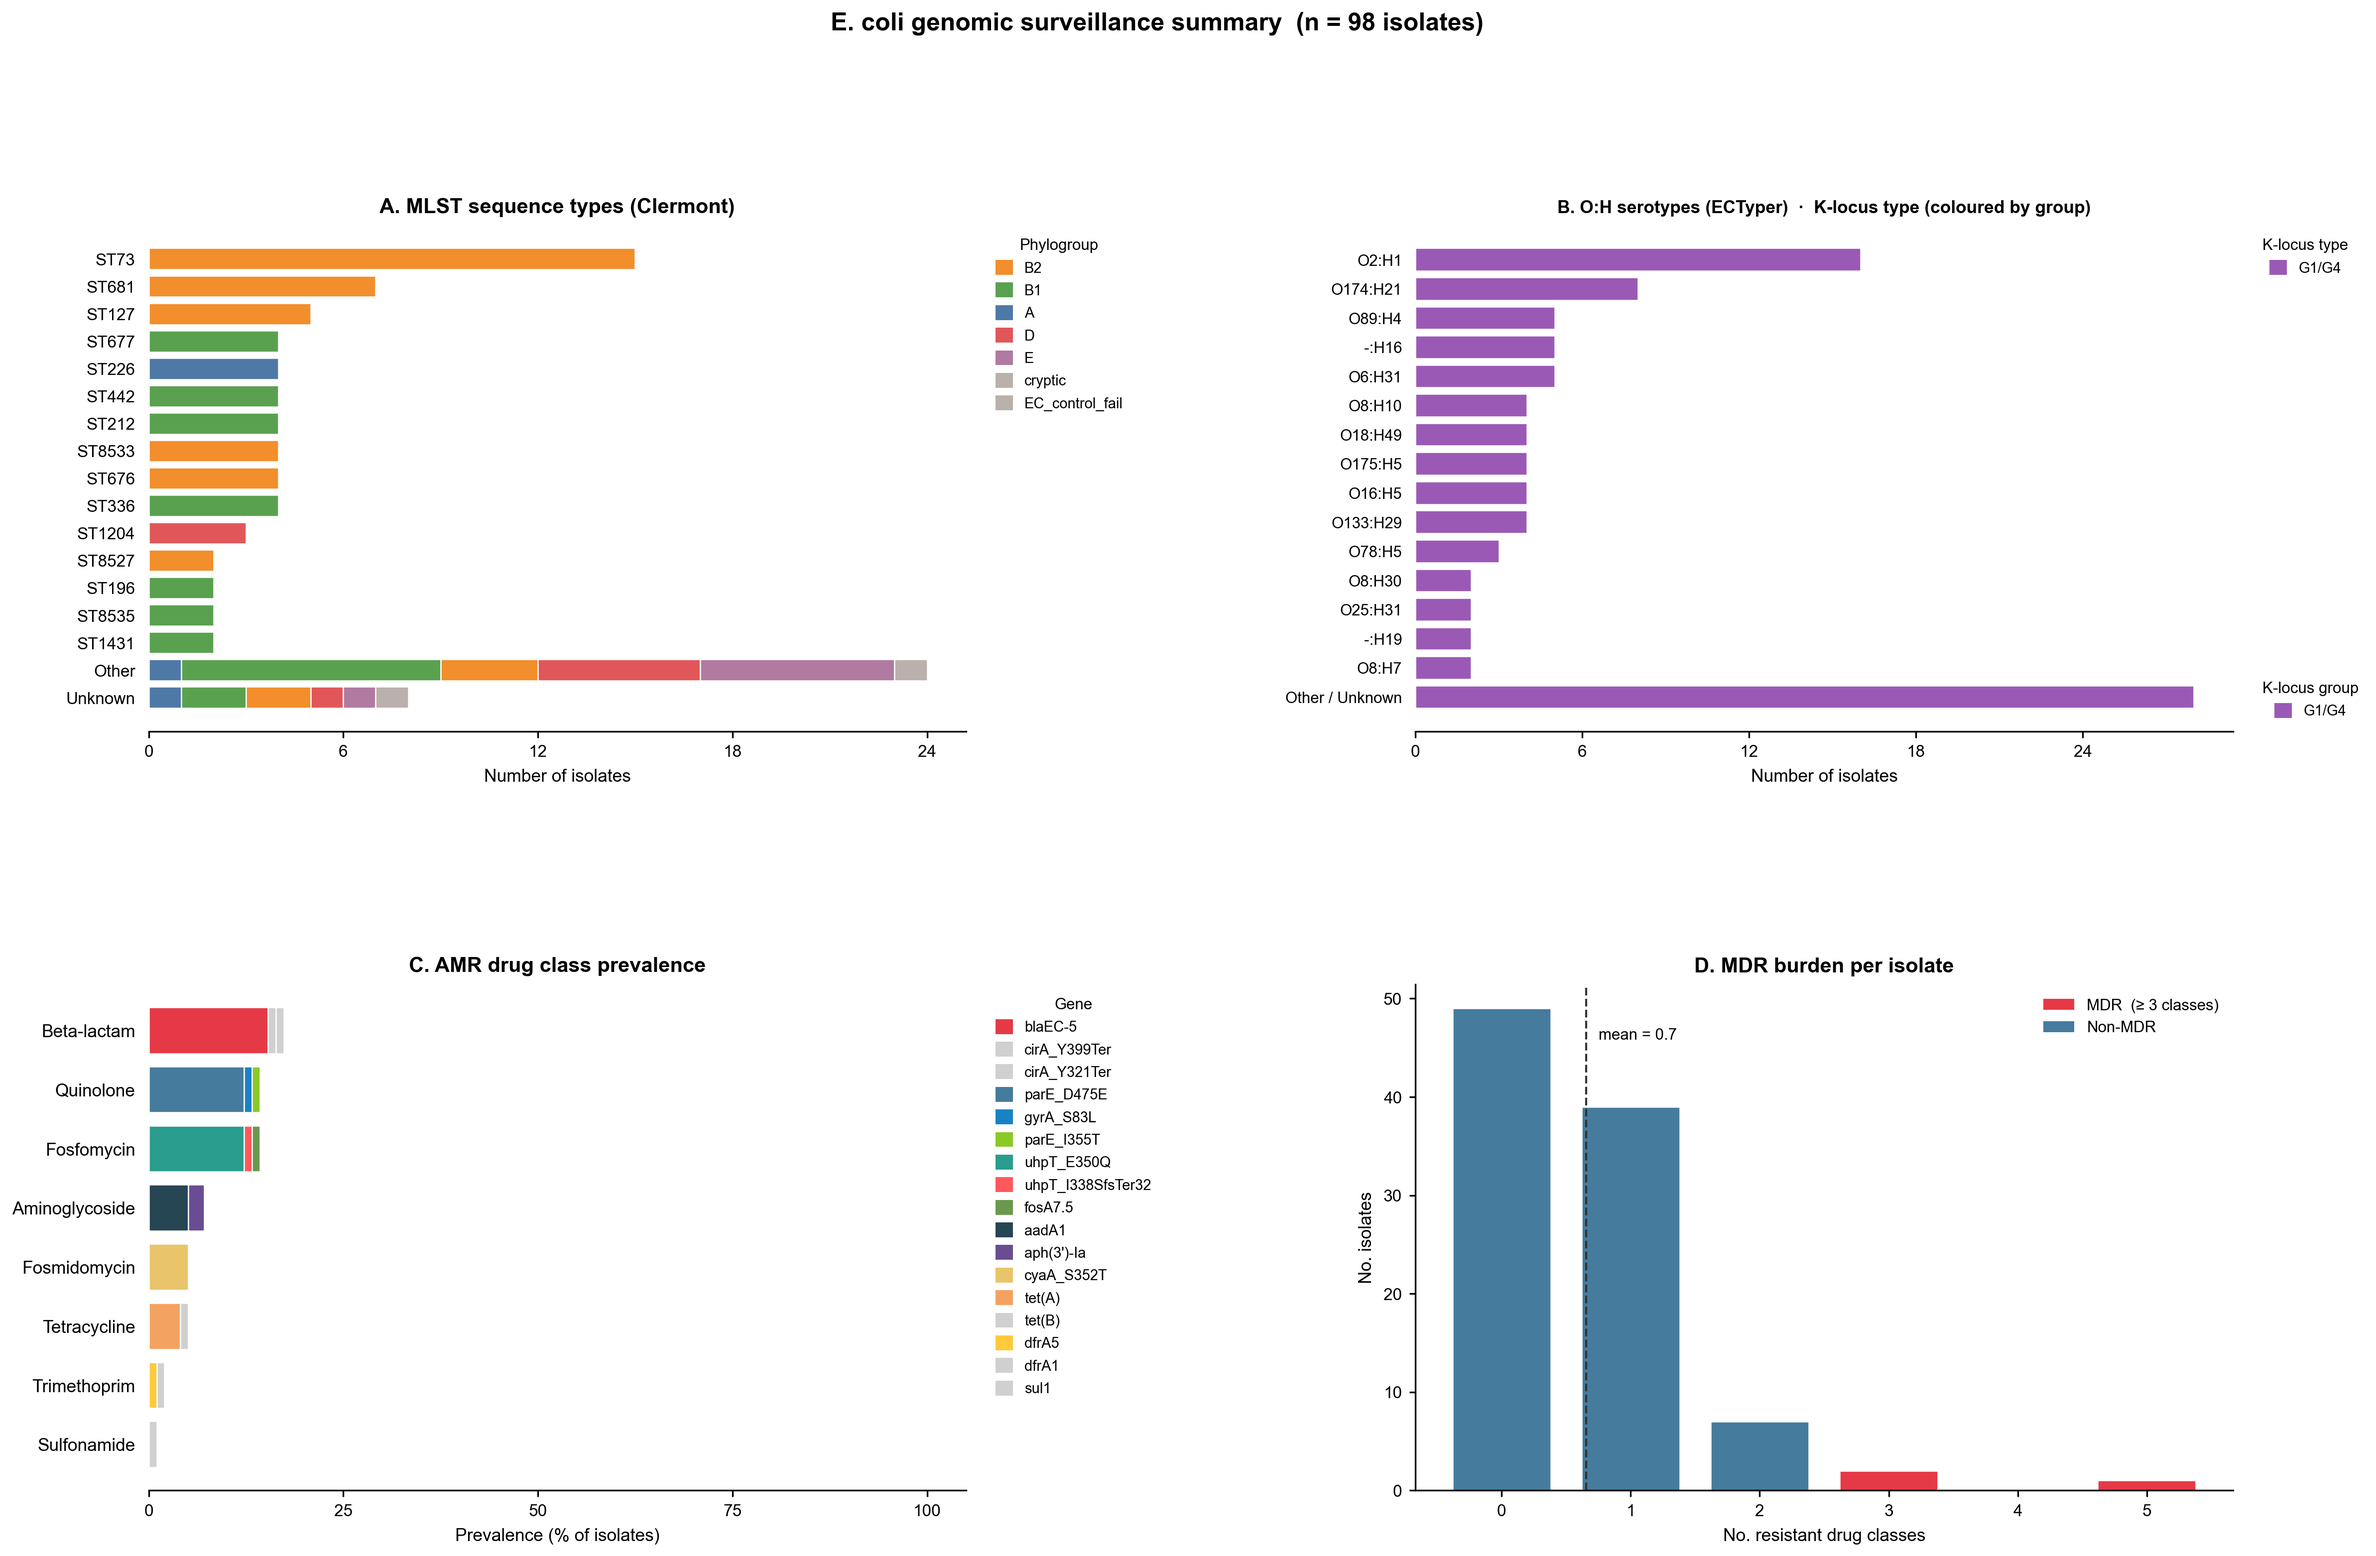
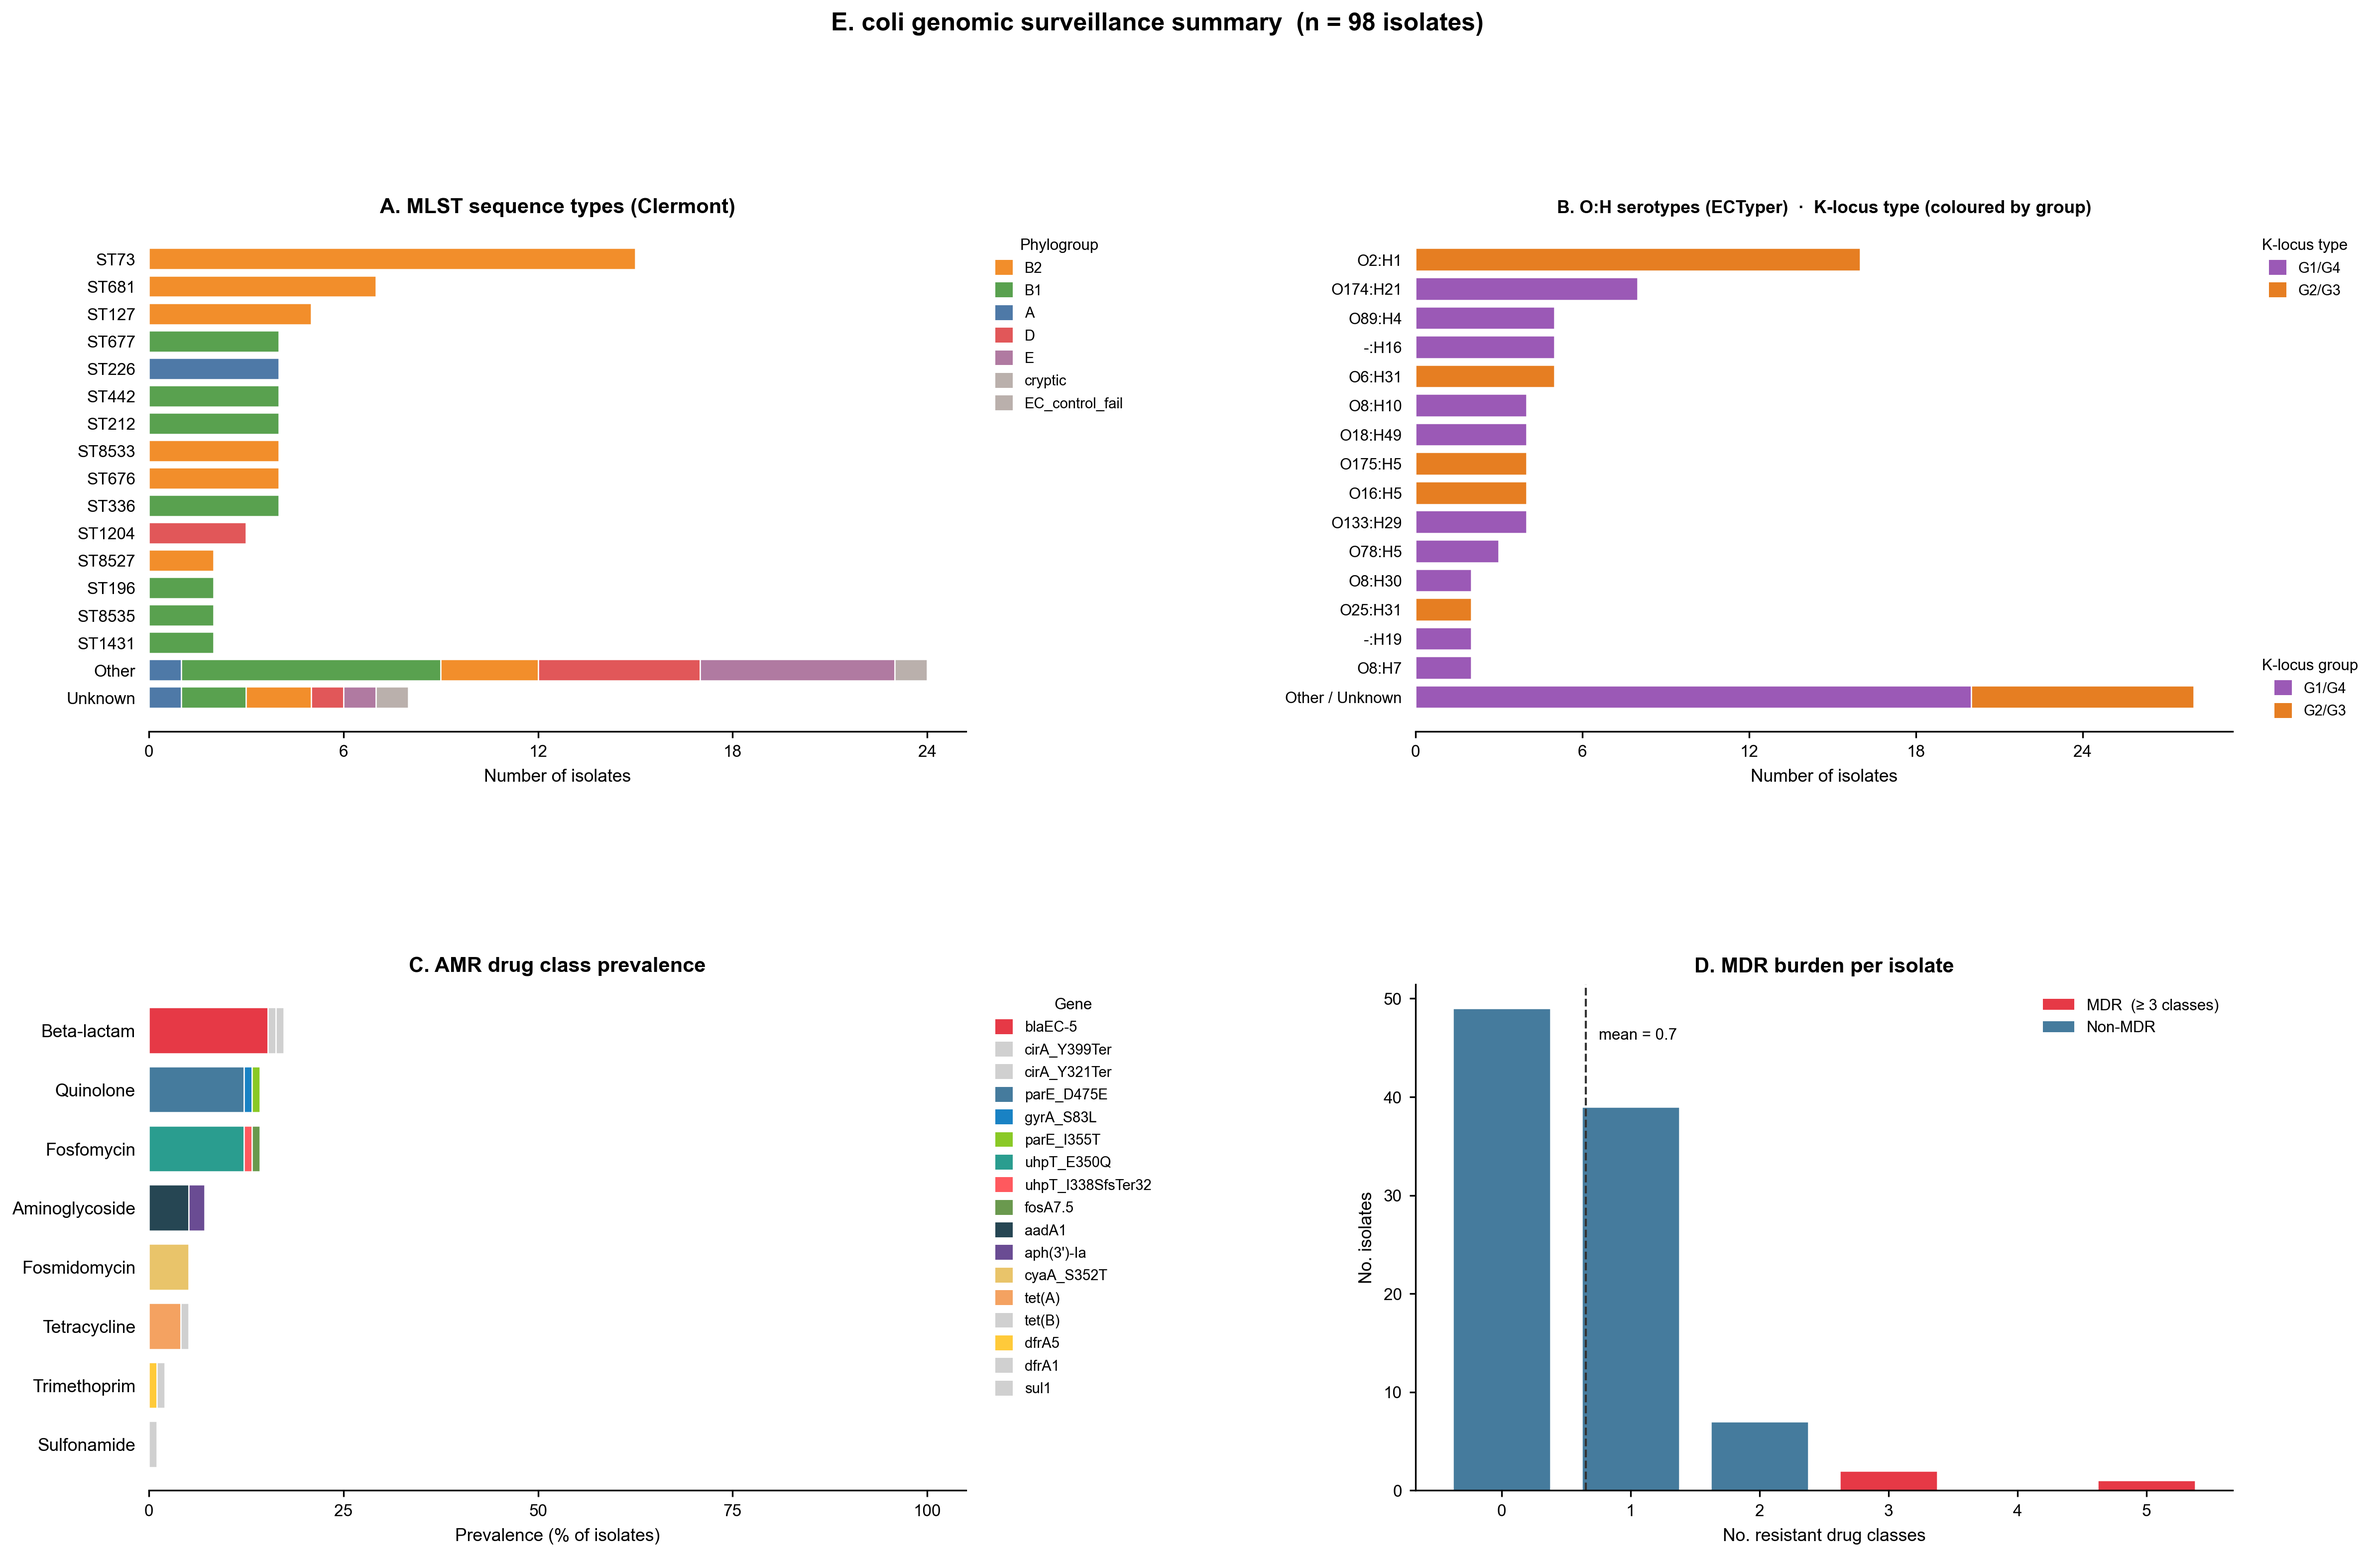
Update E. coli vignette Fig 1 with corrected K-locus group breakdown
Previous run misclassified all G2/G3 isolates as G1/G4 due to the
Typeable confidence vocabulary bug (fixed in 294f4c9). Updated figure
and legend now correctly show both G1/G4 and G2/G3 K-locus groups.

diff --git a/vignettes/ecoli_vignette.md b/vignettes/ecoli_vignette.md
@@ -87,21 +87,23 @@ One row per sample. Key columns:
 **Figure 1. Population-level summary of 98 *Escherichia coli* isolates from
 non-human primate gut microbiomes in The Gambia.**
 Four panels are shown. **(A)** Sequence type (ST) distribution: horizontal bar
-chart of the top sequence types by count (Achtman 7-gene scheme). Commensal
-*E. coli* from NHP hosts span a diverse range of STs, reflecting the broad
-phylogenetic diversity typical of gut commensals.
+chart of the top sequence types by count (Achtman 7-gene scheme), with bars
+coloured by Clermont phylogroup. Commensal *E. coli* from NHP hosts span a
+diverse range of STs dominated by B2 (ST73, ST127) and B1 lineages, reflecting
+the broad phylogenetic diversity typical of gut commensals.
 **(B)** O:H serotype distribution coloured by K-locus group: stacked horizontal
 bar chart where each bar represents a serotype (ECTyper) and fill colours
-indicate the K-locus group — purple for G1/G4, orange for G2/G3 — enabling
+indicate the K-locus group—purple for G1/G4, orange for G2/G3—enabling
 rapid assessment of the K-locus landscape across circulating serotypes.
-Serotypes not in the top 15 are grouped as "Other / Unknown"; bars retain the
-K-locus group colours of their constituent isolates. A secondary legend shows
-individual K-locus types within each group.
+Both G1/G4 and G2/G3 loci are represented across the dataset. Serotypes not in
+the top 15 are grouped as "Other / Unknown"; bars retain the K-locus group
+colours of their constituent isolates. A secondary legend shows individual
+K-locus types within each group.
 **(C)** Acquired AMR drug class prevalence: horizontal bar chart showing the
 proportion of isolates carrying at least one acquired resistance gene per drug
 class, with intrinsic resistance genes excluded.
-**(D)** Multi-drug resistance (MDR): bar showing the proportion of isolates with
-acquired resistance to ≥ 3 antibiotic classes.
+**(D)** Multi-drug resistance (MDR): histogram of the number of resistant drug
+classes per isolate, with MDR isolates (≥ 3 classes) highlighted in red.
 
 ![Population summary](img/ecoli/ecoli_fig1_population_summary.png)
 
